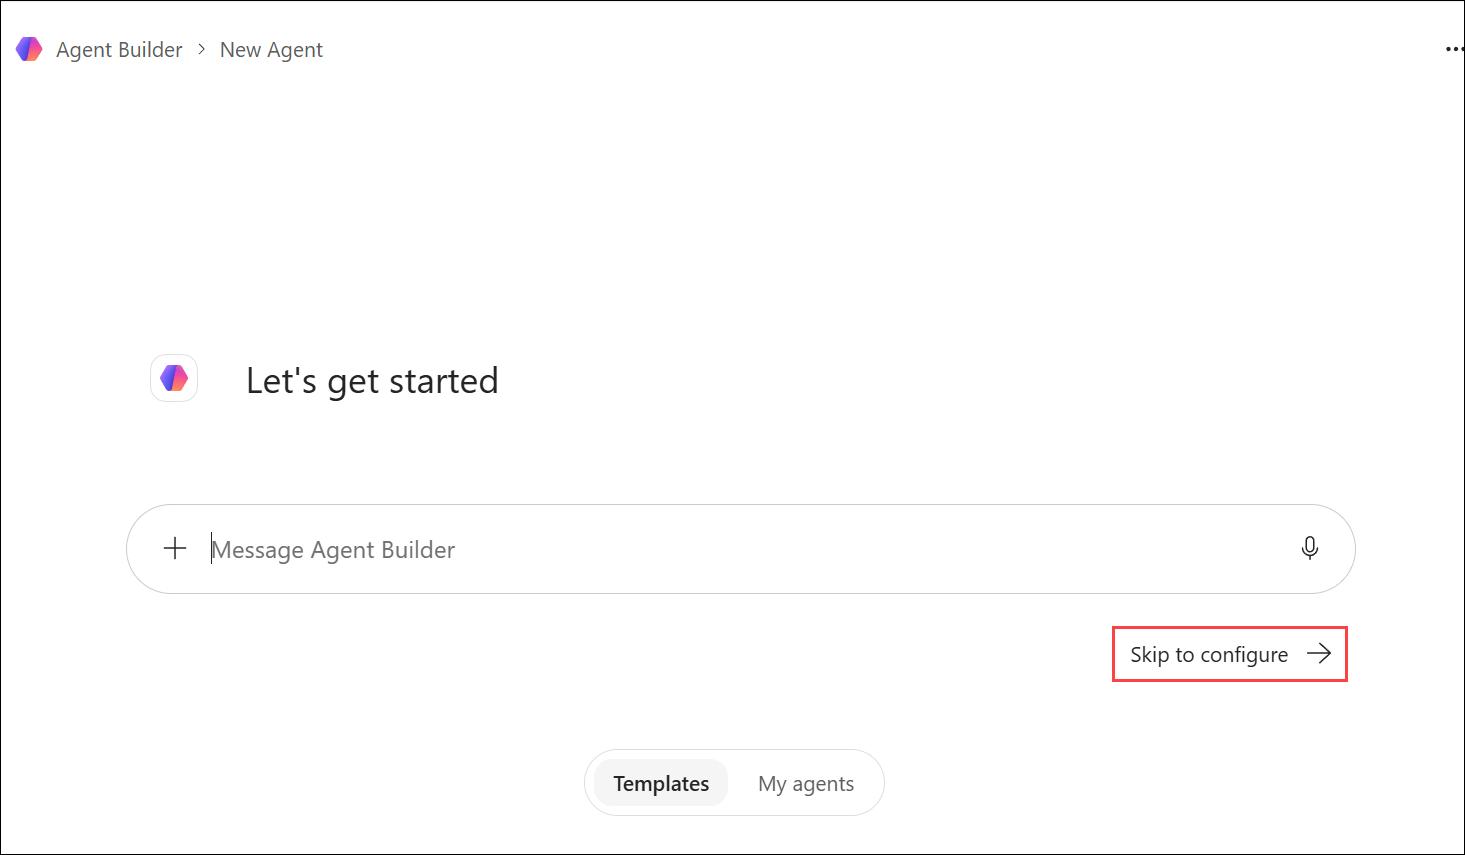
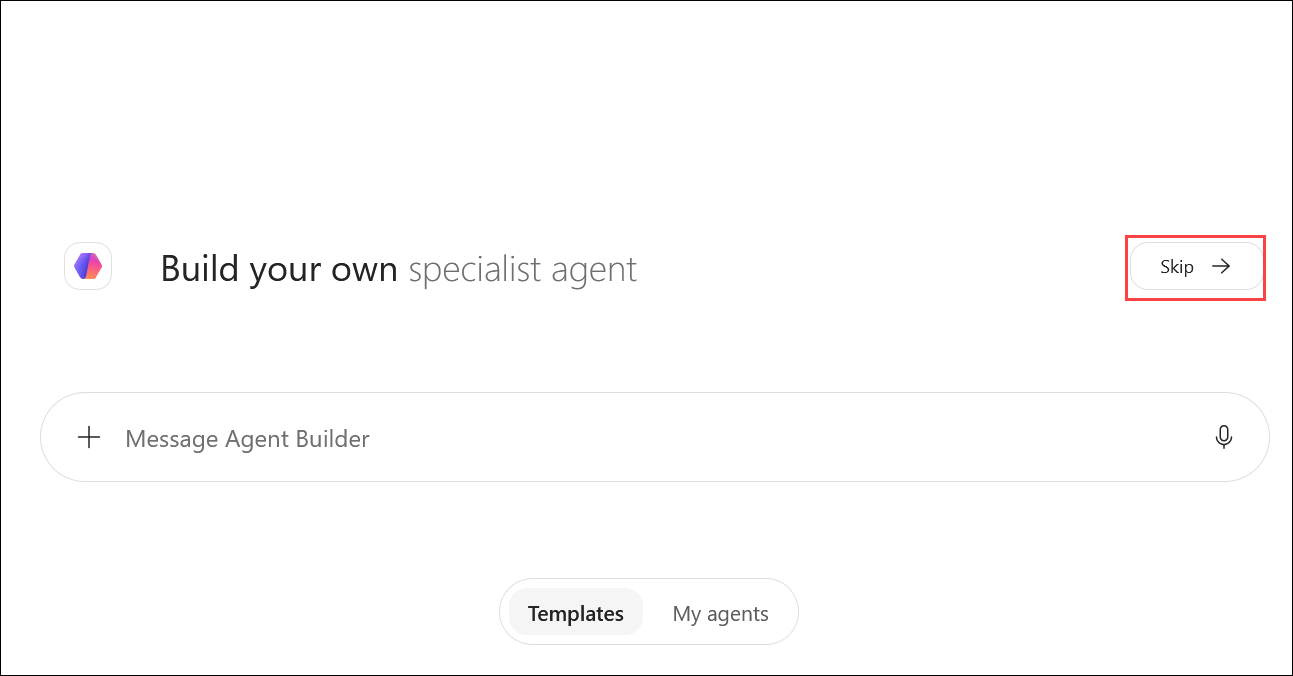
update

diff --git a/Lab Guides/Day-1/Lab 1/Lab-1.md b/Lab Guides/Day-1/Lab 1/Lab-1.md
@@ -98,18 +98,15 @@ Creating plans in the planner
 3.  From the left navigation menu, select 3 **dots(…)** and then select
     **Planner**.
 
-    ![A screenshot of a computer AI-generated content may be
-    incorrect.](./media/image4.png)
+    ![](./media/image4.png)
 
 4.  Select **+Create a plan**.
 
-    ![A screenshot of a computer AI-generated content may be
-    incorrect.](./media/image5.png)
+    ![](./media/image5.png)
 
 5.  Select **Create basic plan**.
 
-    ![A screenshot of a computer AI-generated content may be
-    incorrect.](./media/image6.png)
+    ![](./media/image6.png)
 
 6.  Enter plan name as **Zava Retail-Peak Season Readiness**. Then
     select **Create basic plan**.
@@ -123,8 +120,7 @@ Creating plans in the planner
 
 8.  Enter bucket name as ****Store Operations**** and press **Enter**.
 
-    ![A screenshot of a computer AI-generated content may be
-    incorrect.](./media/image9.png)
+    ![](./media/image9.png)
 
     Your new bucket is add.
 
@@ -138,6 +134,8 @@ Creating plans in the planner
 
     - **Inventory & Supply Chain**
 
+    ![](./media/image10a.png)
+
 10. Now we add the following new tasks in the **Store Operations** bucket:
 
     | Task name | Status | Priority | Due Date (use dates similar to these) | Assign to |
@@ -149,21 +147,19 @@ Creating plans in the planner
     So select **+Add Task** and enter the task name from the above table.
     Then select **Add Task**.
 
-    ![A screenshot of a computer AI-generated content may be
-    incorrect.](./media/image11.png)
+    ![](./media/image11.png)
 
 1. After creating the task, select the task and then in the task window
-    enter the given details.
+    enter the given details and then click on the close option.
 
-    ![A screenshot of a computer AI-generated content may be
-    incorrect.](./media/image12.png)
+    ![](./media/image12.png)
 
     ![A screenshot of a computer
     AI-generated content may be incorrect.](./media/image13.png)
 
 11. Similarly, add the tasks in the following buckets:
 
-1.  Workforce Readiness:
+1.  **Workforce Readiness:**
 
     | Task name | Progress | Priority | Due Date (use dates similar to these) | Assign to |
     |-----------|----------|----------|----------------------------------------|-----------|
@@ -173,7 +169,7 @@ Creating plans in the planner
 
     ![](./media/image13a.png)
 
-2.  Marketing & Promotions:
+2.  **Marketing & Promotions:**
 
     | Task name | Progress | Priority | Due Date (use dates similar to these) | Assign to |
     |-----------|----------|----------|----------------------------------------|-----------|
@@ -181,7 +177,7 @@ Creating plans in the planner
     | **Launch Email & Social Campaign** | In Progress | Important | Tomorrow | Current Username |
     | **Coordinate In-Store Promo Displays** | Not Started | Medium | In 4 days | Current Username |
 
-3.  Inventory & Supply Chain
+3.  **Inventory & Supply Chain**
 
     | Task name | Progress | Priority | Due Date (use dates similar to these) | Assign to |
     |-----------|----------|----------|----------------------------------------|-----------|
@@ -221,10 +217,6 @@ natural language.
 
     ![](./media/image15.png)
 
-3.  Select **Open** to open Planner Agent.
-
-    ![](./media/image16.png)
-
 4.  Now Planner agent is ready to go.
 
     ![](./media/image17.png)
@@ -255,8 +247,7 @@ project.
     Summarize the tasks in my Planner plan "Zava Retail - Peak Season Readiness
     ```
 
-    ![A screenshot of a computer AI-generated content may be
-    incorrect.](./media/image18.png)
+    ![](./media/image18.png)
 
 2.  Review the AI-generated summary.
 
@@ -270,8 +261,7 @@ project.
 
     - Overall readiness status
 
-    ![A screenshot of a computer AI-generated content may be
-    incorrect.](./media/image19.png)
+    ![](./media/image19.png)
 
     ![A screenshot of a computer
     AI-generated content may be incorrect.](./media/image20.png)
@@ -293,13 +283,11 @@ workstreams.
     Which tasks are currently in progress?
     ```
 
-    ![A screenshot of a computer AI-generated content may be
-    incorrect.](./media/image22.png)
+    ![](./media/image22.png)
 
 2.  Review the response.
 
-    ![A screenshot of a computer AI-generated content may be
-    incorrect.](./media/image23.png)
+    ![](./media/image23.png)
 
 ### Task 3 - Review Completed Activities
 
@@ -313,13 +301,11 @@ identify completed readiness activities across the program.
     Which readiness activities have already been completed?
     ```
 
-    ![A screenshot of a computer AI-generated content may be
-    incorrect.](./media/image24.png)
+    ![](./media/image24.png)
 
 2.  Review the completed tasks.
 
-    ![A screenshot of a computer AI-generated content may be
-    incorrect.](./media/image25.png)
+    ![](./media/image25.png)
 
     ![A screenshot of a computer
     AI-generated content may be incorrect.](./media/image26.png)
@@ -340,9 +326,9 @@ obvious which activities deserve immediate attention. Ask Planner Agent
 to identify the highest-priority work that should be completed this
 week.
 
-1.  Select **New Chat**.
+1.  Click on the **Planner Agent** to open the **New Chat**.
 
-    ![](./media/image27.png)
+    ![](./media/image41.png)
 
 2.  Enter the following prompt and click the Send button:
 
@@ -352,8 +338,7 @@ week.
     priorities, and task status.
     ```
     
-    ![A screenshot of a computer AI-generated content may be
-    incorrect.](./media/image28.png)
+    ![](./media/image28.png)
 
 3.  Review Planner Agent's recommendations.
 
@@ -406,17 +391,14 @@ the current project status.
 2.  Review Planner Agent's assessment, including how it weighs the
     overdue tasks in its judgment.
 
-    ![A screenshot of a computer AI-generated content may be
-    incorrect.](./media/image37.png)
+    ![](./media/image37.png)
 
     ![A screenshot of a computer
     AI-generated content may be incorrect.](./media/image38.png)
 
-    ![A screenshot of a computer AI-generated content may be
-    incorrect.](./media/image39.png)
+    ![](./media/image39.png)
 
-    ![A screenshot of a computer AI-generated content may be
-    incorrect.](./media/image40.png)
+    ![](./media/image40.png)
 
 ## Exercise 4 - Generate Leadership Insights
 
@@ -436,10 +418,9 @@ Before discussing operational decisions, leadership needs a quick
 overview of the current state of the readiness program. Use Planner
 Agent to summarize the Planner plan for executive stakeholders.
 
-1.  Select **New Chat**.
+1.  Click on the **Planner Agent** to open the **New Chat**.
 
-    ![A screenshot of a computer AI-generated content may be
-    incorrect.](./media/image41.png)
+    ![](./media/image41.png)
 
 2.  Enter the following prompt and click the Send button:
 
@@ -449,8 +430,7 @@ Agent to summarize the Planner plan for executive stakeholders.
     progress, remaining work, and any overdue activities.
     ```
 
-    ![A screenshot of a computer AI-generated content may be
-    incorrect.](./media/image42.png)
+    ![](./media/image42.png)
 
 3.  Review the generated summary and verify that it accurately reflects
     the Planner plan by highlighting completed activities, ongoing work,
@@ -458,11 +438,9 @@ Agent to summarize the Planner plan for executive stakeholders.
     provides a concise project overview without requiring a manual
     review of every task.
 
-    ![A screenshot of a computer AI-generated content may be
-    incorrect.](./media/image43.png)
+    ![](./media/image43.png)
 
-    ![A screenshot of a computer AI-generated content may be
-    incorrect.](./media/image44.png)
+    ![](./media/image44.png)
 
     ![A screenshot of a computer
     AI-generated content may be incorrect.](./media/image45.png)
@@ -479,14 +457,12 @@ and recommend the next operational priorities.
     Analyze my Planner tasks and recommend the next actions to keep the project on schedule.
     ```
 
-    ![A screenshot of a computer AI-generated content may be
-    incorrect.](./media/image46.png)
+    ![](./media/image46.png)
 
 2.  Review Planner Agent's recommendations and verify that they focus on
     overdue tasks, high-priority activities, and upcoming deadlines.
 
-    ![A screenshot of a computer AI-generated content may be
-    incorrect.](./media/image47.png)
+    ![](./media/image47.png)
 
     ![A screenshot of a computer
     AI-generated content may be incorrect.](./media/image48.png)

diff --git a/Lab Guides/Day-1/Lab 4/Lab-4.md b/Lab Guides/Day-1/Lab 4/Lab-4.md
@@ -4,9 +4,9 @@
 
 ## Overview
 
-In this lab, you will use **App Builder** inside Microsoft 365 Copilot to create a fully functional business application — using nothing but natural language. You will describe what you want, watch Copilot build it in real time, refine it through conversation, and publish it for your team.
+In this lab, you will use **App Builder** inside Microsoft 365 Copilot to create a fully functional business application - using nothing but natural language. You will describe what you want, watch Copilot build it in real time, refine it through conversation, and publish it for your team.
 
-You are an IT Asset Manager at Zava Retail, a growing retail chain with over 1,200 employees across 15 store locations and a central head office. Every quarter, your IT team manually tracks equipment issued to store managers and head office staff using a shared spreadsheet that is constantly out of date. The goal is to build a **Zava Retail IT Asset Tracker** app — a conversational, no-code tool inside the Microsoft 365 Copilot — that gives a live dashboard to manage asset assignments, track request statuses, and flag overdue items within the IT team.
+You are an IT Asset Manager at Zava Retail, a growing retail chain with over 1,200 employees across 15 store locations and a central head office. Every quarter, your IT team manually tracks equipment issued to store managers and head office staff using a shared spreadsheet that is constantly out of date. The goal is to build a **Zava Retail IT Asset Tracker** app - a conversational, no-code tool inside the Microsoft 365 Copilot - that gives a live dashboard to manage asset assignments, track request statuses, and flag overdue items within the IT team.
 
 ## Lab Objectives
 
@@ -27,7 +27,7 @@ At Zava Retail, nobody knows at a glance which employees have outstanding equipm
 
 ## Exercise 1: Access App Builder and Describe Your App
 
-App Builder works like a conversation. You describe the app you need in plain language — the same way you would brief a colleague — and Copilot builds it.
+App Builder works like a conversation. You describe the app you need in plain language - the same way you would brief a colleague - and Copilot builds it.
 
 ### Task 1: Access App Builder
 
@@ -51,19 +51,18 @@ App Builder works like a conversation. You describe the app you need in plain la
 
         ![](./media/l4e1t1s1.png)
 
-2. Click **Agents (1)** from the left navigation pane, then select **More agents (2)** > **App Builder (Frontier)**.
+2. On the left-hand navigation pane, click **More agents\>App Builder(Frontier)**.
 
-    ![](./media/l3e1t1s4.png)
+    ![](./media/bb2.png)
 
-    ![](./media/l4e1t1s2.png)
+3. Select **Add** to add this agent to your environment.  
 
-3. Select **Add** to add this agent to your environment.
+    ![](./media/bb3.png)
 
-    ![](./media/l4e1t1s3.png)
+4. The App Builder interface will open with a conversational input
+    field - this is where you describe your app.
 
-4. The App Builder interface will open with a conversational input field — this is where you describe your app.
-
-    ![](./media/l4e1t1s4.png)
+    ![](./media/bb4.png)
 
 ### Task 2: Describe Your App in Natural Language
 
@@ -72,7 +71,7 @@ App Builder works like a conversation. You describe the app you need in plain la
     ```
     Build me an IT asset tracking app for Zava Retail. The app should
     let the IT team log equipment assigned to store managers and head office
-    employees — including laptops, tablets, POS peripherals, and
+    employees - including laptops, tablets, POS peripherals, and
     accessories, with an option to add new asset records via a form (Model,
     Serial Number, Type, Status, Assigned Employee). It should track each
     item's status as Assigned, Pending Collection, or Returned. I need a
@@ -85,7 +84,7 @@ App Builder works like a conversation. You describe the app you need in plain la
 
     ![](./media/l4e1t2s1.png)
 
-2. Once generation is complete, a live preview of your app will appear on the right side of the screen — with a navigation panel showing sections such as **Dashboard**, **Assets**, **Employees**, **Tasks**, **Resources**, and potential **Feedback**.
+2. Once generation is complete, a live preview of your app will appear on the right side of the screen - with a navigation panel showing sections such as **Dashboard**, **Assets**, **Employees**, **Tasks**, **Resources**, and potential **Feedback**.
 
     ![](./media/l4e1t2s2.png)
 
@@ -103,7 +102,7 @@ App Builder works like a conversation. You describe the app you need in plain la
 
     ```
     Add a section to the dashboard that highlights overdue asset requests
-    — items that have been in Pending Collection status for more than 7
+    - items that have been in Pending Collection status for more than 7
     days. Show the employee's name, asset type, and how many days are
     overdue.
     ```
@@ -119,8 +118,8 @@ App Builder works like a conversation. You describe the app you need in plain la
 1. In the conversation input, paste the following prompt and click the **Send** button.
 
     ```
-    In the Tasks section, add priority indicators — High, Medium, and
-    Low — for each task. Also add a Due This Week view that filters to show
+    In the Tasks section, add priority indicators - High, Medium, and
+    Low - for each task. Also add a Due This Week view that filters to show
     only tasks due within the next 7 days.
     ```
 
@@ -143,7 +142,7 @@ The IT team needs to see not just a list of employees, but a clear record of wha
 
     ```
     In the Employees section, add a column showing each employee's asset
-    setup status — either Complete or In Progress. Also add a filter so the
+    setup status - either Complete or In Progress. Also add a filter so the
     IT team can view only employees with In Progress status who may need
     follow-up.
     ```
@@ -241,7 +240,7 @@ The IT team needs to see not just a list of employees, but a clear record of wha
 
     ![](./media/l4e4t3s2.png)
 
-3. Copy the briefing and the direct app link — these are what you would share with the IT team in a real deployment.
+3. Copy the briefing and the direct app link - these are what you would share with the IT team in a real deployment.
 
     ![](./media/l4e4t3s3.png)
 

diff --git a/Lab Guides/Day-1/Lab 3/Lab-3.md b/Lab Guides/Day-1/Lab 3/Lab-3.md
@@ -59,7 +59,7 @@ Before the agent can support workforce development, you must first build and con
 
     ![](./media/l3e1t1s5.png)
 
-3. The **New Agent** page will open. Now click **Skip to configure**.
+3. The **New Agent** page will open. Now click **Skip**.
 
     ![](./media/l3e1t1s6.png)
 
